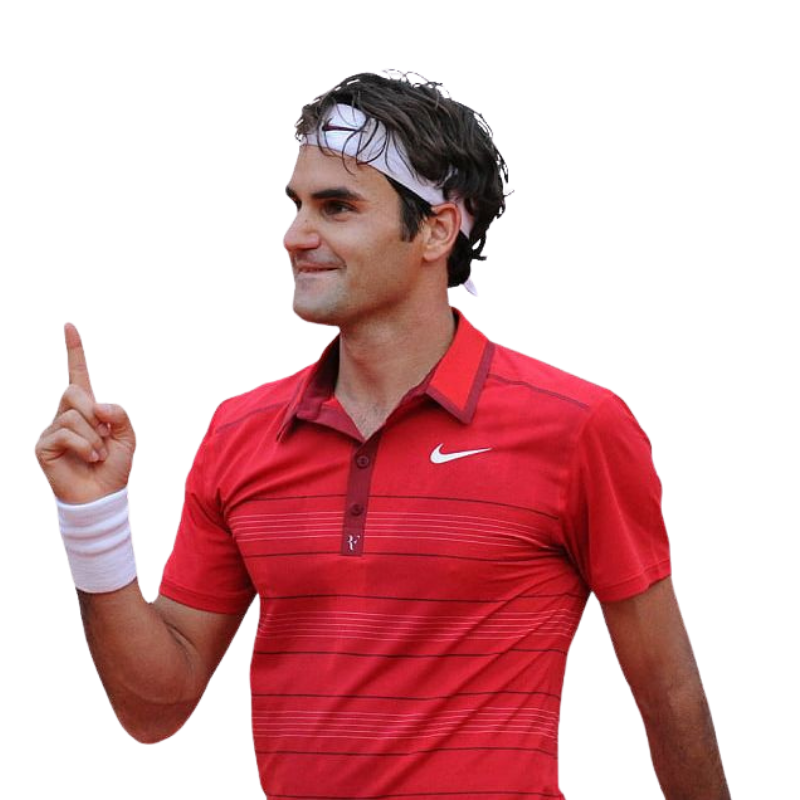
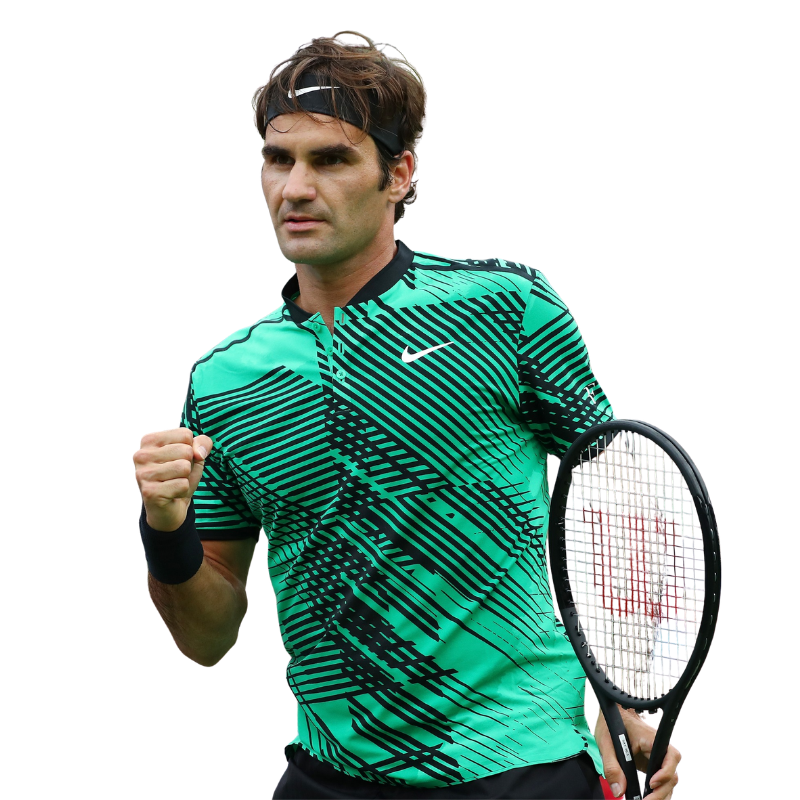
Fixed Players Tab and changed pictures

diff --git a/app/players/page.tsx b/app/players/page.tsx
@@ -1,0 +1,189 @@
+import Image from "next/image";
+import Link from "next/link";
+import { ArrowRight } from "lucide-react";
+import rafaelNadal from "@/assets/rafael-nadal.png";
+import novakDjokovic from "@/assets/novak-djokovic.png";
+import rogerFederer from "@/assets/roger-federer.png";
+
+const players = [
+  {
+    slug: "rafael-nadal",
+    first: "Rafael",
+    last: "Nadal",
+    nickname: "King of Clay",
+    surface: "Clay",
+    color: "#ff6a21",
+    softColor: "rgba(255,106,33,0.5)",
+    cardBg: `
+      radial-gradient(ellipse 110% 55% at 50% 105%, rgba(255,106,22,0.55) 0%, transparent 58%),
+      radial-gradient(ellipse 80% 40% at 50% -5%, rgba(140,50,10,0.22) 0%, transparent 55%),
+      linear-gradient(180deg, #0d0402 0%, #080301 50%, #040200 100%)
+    `,
+    stat: "22 Grand Slams",
+    slams: "22",
+    titles: "92",
+    avatar: rafaelNadal,
+  },
+  {
+    slug: "novak-djokovic",
+    first: "Novak",
+    last: "Djokovic",
+    nickname: "The Djoker",
+    surface: "Hard",
+    color: "#238ef8",
+    softColor: "rgba(35,142,248,0.5)",
+    cardBg: `
+      radial-gradient(ellipse 110% 55% at 50% 105%, rgba(28,130,248,0.52) 0%, transparent 58%),
+      radial-gradient(ellipse 80% 40% at 50% -5%, rgba(10,60,160,0.20) 0%, transparent 55%),
+      linear-gradient(180deg, #02060f 0%, #020408 50%, #020306 100%)
+    `,
+    stat: "24 Grand Slams",
+    slams: "24",
+    titles: "98",
+    avatar: novakDjokovic,
+  },
+  {
+    slug: "roger-federer",
+    first: "Roger",
+    last: "Federer",
+    nickname: "The Maestro",
+    surface: "Grass",
+    color: "#6ac34a",
+    softColor: "rgba(106,195,74,0.5)",
+    cardBg: `
+      radial-gradient(ellipse 110% 55% at 50% 105%, rgba(90,175,55,0.50) 0%, transparent 58%),
+      radial-gradient(ellipse 80% 40% at 50% -5%, rgba(38,100,20,0.20) 0%, transparent 55%),
+      linear-gradient(180deg, #040d02 0%, #030802 50%, #020502 100%)
+    `,
+    stat: "103 ATP Titles",
+    slams: "20",
+    titles: "103",
+    avatar: rogerFederer,
+  },
+];
+
+export default function PlayersPage() {
+  return (
+    <div className="flex flex-col">
+      {/* Fixed background */}
+      <div className="fixed inset-0 -z-10 bg-[#030404]">
+        <div className="absolute inset-0 bg-[radial-gradient(circle_at_20%_30%,rgba(255,106,33,0.14),transparent_30%),radial-gradient(circle_at_50%_20%,rgba(35,142,248,0.16),transparent_35%),radial-gradient(circle_at_82%_30%,rgba(106,195,74,0.14),transparent_30%),linear-gradient(180deg,#050606_0%,#030404_100%)]" />
+        <div className="absolute inset-0 opacity-[0.07] [background-image:linear-gradient(rgba(255,255,255,0.1)_1px,transparent_1px),linear-gradient(90deg,rgba(255,255,255,0.1)_1px,transparent_1px)] [background-size:56px_56px]" />
+      </div>
+
+      {/* Player cards */}
+      <div className="grid flex-1 grid-cols-1 gap-3 pb-4 sm:grid-cols-3">
+        {players.map((player) => (
+          <Link
+            key={player.slug}
+            href={`/players/${player.slug}`}
+            className="group relative flex min-h-[460px] flex-col overflow-hidden rounded-xl border border-white/10 sm:min-h-[560px]"
+            style={{ background: player.cardBg }}
+          >
+            {/* Body glow */}
+            <div
+              className="pointer-events-none absolute inset-x-[-5%] bottom-0 top-[25%] blur-2xl transition-opacity duration-500 group-hover:opacity-130"
+              style={{
+                background: `radial-gradient(ellipse 70% 80% at 50% 72%, ${player.softColor}, transparent 68%)`,
+              }}
+            />
+
+            {/* Floor reflection */}
+            <div
+              className="pointer-events-none absolute inset-x-0 bottom-0 h-[20%] blur-xl"
+              style={{
+                background: `radial-gradient(ellipse 80% 100% at 50% 100%, ${player.softColor.replace("0.5", "0.3")}, transparent 70%)`,
+              }}
+            />
+
+            {/* Player image — takes up most of the card */}
+            <div className="absolute inset-x-0 bottom-[120px] top-0 transition-transform duration-700 group-hover:scale-[1.03]">
+              <Image
+                src={player.avatar}
+                alt={`${player.first} ${player.last}`}
+                fill
+                sizes="(min-width: 640px) 33vw, 100vw"
+                className="object-contain object-bottom drop-shadow-[0_0_40px_rgba(0,0,0,0.95)]"
+                priority
+              />
+            </div>
+
+            {/* Bottom gradient overlay */}
+            <div className="absolute inset-x-0 bottom-0 h-[55%] bg-gradient-to-t from-black/95 via-black/60 to-transparent" />
+
+            {/* Bottom content */}
+            <div className="absolute inset-x-0 bottom-0 p-5 sm:p-6">
+              {/* Nickname */}
+              <div
+                className="mb-2 text-[10px] font-black uppercase tracking-[0.35em]"
+                style={{ color: player.color }}
+              >
+                {player.nickname}
+              </div>
+
+              {/* Name */}
+              <h2 className="text-3xl font-black uppercase italic leading-[0.95] text-white sm:text-4xl">
+                {player.first}
+                <br />
+                {player.last}
+              </h2>
+
+              {/* Mini stats */}
+              <div className="mt-3 flex gap-4">
+                <div>
+                  <div
+                    className="text-xl font-black"
+                    style={{ color: player.color }}
+                  >
+                    {player.slams}
+                  </div>
+                  <div className="text-[9px] font-bold uppercase tracking-wide text-white/35">
+                    Grand Slams
+                  </div>
+                </div>
+                <div className="w-px bg-white/10" />
+                <div>
+                  <div
+                    className="text-xl font-black"
+                    style={{ color: player.color }}
+                  >
+                    {player.titles}
+                  </div>
+                  <div className="text-[9px] font-bold uppercase tracking-wide text-white/35">
+                    ATP Titles
+                  </div>
+                </div>
+                <div className="w-px bg-white/10" />
+                <div>
+                  <div
+                    className="text-xl font-black text-white/70"
+                  >
+                    {player.surface}
+                  </div>
+                  <div className="text-[9px] font-bold uppercase tracking-wide text-white/35">
+                    Best Surface
+                  </div>
+                </div>
+              </div>
+
+              {/* CTA */}
+              <div
+                className="mt-4 flex items-center gap-2 text-[11px] font-black uppercase tracking-wide transition-all duration-200"
+                style={{ color: player.color }}
+              >
+                View Profile
+                <ArrowRight className="h-3.5 w-3.5 transition-transform duration-200 group-hover:translate-x-1" />
+              </div>
+            </div>
+
+            {/* Top active color bar */}
+            <div
+              className="absolute inset-x-0 top-0 h-[2px] opacity-60"
+              style={{ backgroundColor: player.color }}
+            />
+          </Link>
+        ))}
+      </div>
+    </div>
+  );
+}

diff --git a/components/Navbar.tsx b/components/Navbar.tsx
@@ -6,7 +6,7 @@ import { usePathname } from "next/navigation";
 
 const navItems = [
   { label: "Home", href: "/" },
-  { label: "Players", href: "/players/rafael-nadal", activeMatch: "/players" },
+  { label: "Players", href: "/players", activeMatch: "/players" },
   { label: "H2H", href: "/h2h" },
   { label: "Timeline", href: "/timeline" },
 ];
@@ -58,21 +58,21 @@ export function Navbar() {
         <div className="hidden min-w-[170px] lg:block" />
       </div>
 
-      <nav className="-mx-4 mt-4 flex gap-2 overflow-x-auto px-4 pb-1 text-[11px] font-black uppercase tracking-wide text-white/75 lg:hidden">
+      <nav className="mt-4 grid grid-cols-4 gap-2 text-[11px] font-black uppercase tracking-wide lg:hidden">
         {navItems.map((item) => {
           const isActive =
             item.href === "/"
               ? pathname === "/"
-              : pathname.startsWith(item.href) && item.href !== "#";
+              : pathname.startsWith(item.activeMatch ?? item.href) && item.href !== "#";
 
           return (
             <Link
               key={item.label}
               href={item.href}
-              className={`shrink-0 rounded border px-3 py-2 transition-colors ${
+              className={`flex items-center justify-center rounded border py-2.5 text-center transition-colors ${
                 isActive
                   ? "border-[#d9ae64]/50 bg-[#d9ae64]/12 text-[#e4bd73]"
-                  : "border-white/12 bg-white/[0.04] text-white/75 hover:border-[#d9ae64]/30 hover:text-[#e4bd73]"
+                  : "border-white/12 bg-white/[0.04] text-white/65 hover:border-[#d9ae64]/30 hover:text-[#e4bd73]"
               }`}
             >
               {item.label}